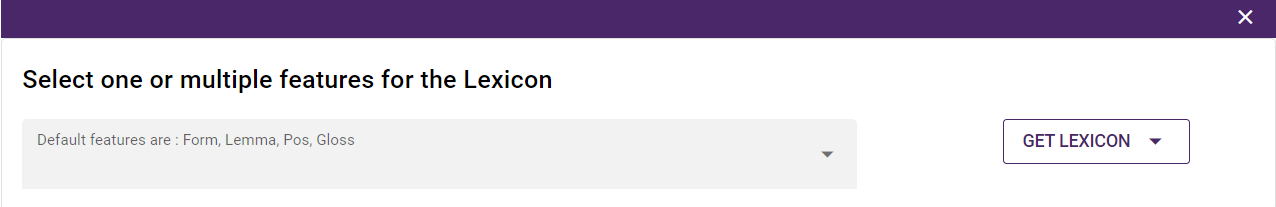
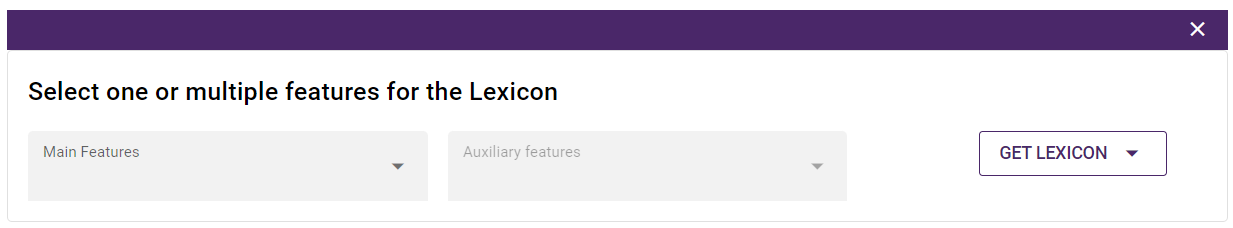
update lexicon doc

diff --git a/index.html b/index.html
@@ -1,45 +1,51 @@
 <!DOCTYPE html>
 <html lang="en">
-<head>
-  <meta charset="UTF-8">
-  <title>Document</title>
-  <meta http-equiv="X-UA-Compatible" content="IE=edge,chrome=1" />
-  <meta name="description" content="Description">
-  <meta name="viewport" content="width=device-width, initial-scale=1.0, minimum-scale=1.0">
-  
-<!-- Theme: Simple -->
-<!-- Theme: Simple Dark -->
-<link rel="stylesheet" href="//cdn.jsdelivr.net/npm/docsify/lib/themes/vue.css" />
+  <head>
+    <meta charset="UTF-8">
+    <title>Document</title>
+    <meta http-equiv="X-UA-Compatible" content="IE=edge,chrome=1" />
+    <meta name="description" content="Description">
+    <meta name="viewport" content="width=device-width, initial-scale=1.0, minimum-scale=1.0">
+    
+  <!-- Theme: Simple -->
+  <!-- Theme: Simple Dark -->
+    <link rel="stylesheet" href="//cdn.jsdelivr.net/npm/docsify/lib/themes/vue.css" />
 
-</head>
-<body>
-  <div id="app"></div>
-  <script>
-    window.$docsify = {
-      name: 'Arborator-Grew',
-      repo: '',
-      loadSidebar: '_sidebar.md',
-      subMaxLevel: 3,
+  </head>
+  <body>
+    <div id="app"></div>
+    <script>
+      window.$docsify = {
+        name: 'Arborator-Grew',
+        repo: '',
+        loadSidebar: '_sidebar.md',
+        subMaxLevel: 3,
 
-      logo: '/assets/images/logo.svg',
-      search: {
-        paths: [], // or 'auto'
-        placeholder: 'Type to search',
-        noData: 'No Results!',
-        depth: 2,
-        hideOtherSidebarContent: false,
-      },
-     
+        logo: '/assets/images/logo.svg',
+        search: {
+          paths: [], // or 'auto'
+          placeholder: 'Type to search',
+          noData: 'No Results!',
+          depth: 2,
+          hideOtherSidebarContent: false,
+        },
+        latex: {
+          inlineMath   : [['$', '$'], ['\\(', '\\)']], // default
+          displayMath  : [['$$', '$$']],               // default
+        }
+      
+      
+
+      }
+    </script>
+    <script src="//cdn.jsdelivr.net/npm/mathjax@3/es5/tex-mml-chtml.js"></script>
+    <script src="//cdn.jsdelivr.net/npm/docsify-latex@0"></script>
+    <script src="//cdn.jsdelivr.net/npm/docsify/lib/docsify.min.js"></script>
+    <script src="//cdn.jsdelivr.net/npm/docsify/lib/plugins/search.min.js"></script>
+    <!-- Docsify v4 -->
+    
     
 
-    }
-  </script>
-  <script src="//cdn.jsdelivr.net/npm/docsify/lib/docsify.min.js"></script>
-  <script src="//cdn.jsdelivr.net/npm/docsify/lib/plugins/search.min.js"></script>
-  <!-- Docsify v4 -->
-  
-  
-
-  
-</body>
+    
+  </body>
 </html>

diff --git a/README.md b/README.md
@@ -200,31 +200,40 @@ rare structures and potential errors inside a treebank. The user can access
 directly the trees that match the negative pattern and update it. 
 
 ### Lexicon 
-Lexicon is one of the advanced options available in **[Arborator-Grew](https://arboratorgrew.elizia.net/#)**. The user can select the desired features that will be displayed in the lexicon table. 
+Lexicon is one of the advanced options available in **[Arborator-Grew](https://arboratorgrew.elizia.net/#)**. The user select two list of features.
+- $L_1 = [f_1, …, f_m]$ as main features.
+- $L_2 = [g_1, …, g_m]$ as auxiliary features.
 
 <div style="text-align:center">
 <img src="assets/images/10-Select-features-lexicon.png" alt="drawing" width="900"/>
 </div>
 
-The user can also access to the trees related to the lexicon entry. The lexicon can be exported in `TSV` and `JSON` format.
+The output table corresponds to the possible values of all features, such that for all tuples of values for $f_i$, there is more than one tuples of values for $g_i$. The idea is to show only $f$ values which are ambiguous with respect to 
+values $g$.
+
+#### Exemple 
+
+For  $L_1 = [$`Form`, `Lemma`, `Upos`$]$ and $L_2 = [$`Gender `, `Number`$]$ 
 
 <div style="text-align:center">
-<img src="assets/images/11-lexicon.png" alt="drawing" width="900"/>
+<img src="assets/images/11-lexicon-exemple.png" alt="drawing" width="900"/>
 </div>
 
- The user will be able to detect ambiguous entries based on their features using the select input.  
+This will show the entries where there is more than one couple of value for `Gender` and `Number` with the same combination (`Form`, `Lemma`, `Upos`)
+
 
 <div style="text-align:center">
 <img src="assets/images/12-lexicon-ambiguous.png" alt="drawing" width="900"/>
 </div>
-
-This option will keep the entries where there is more than one couple of value for `Gender` and `Number` with the same combination (`Form`, `Lemma`, `Pos`, `Gloss`). 
  
 After that, the user can correct them directly using the grew rewrite rule option.
+<br/><br/>
 <div style="text-align:center">
-<img src="assets/images/11-Modified-lexicon.png" alt="drawing" width="900"/>
+<img src="assets/images/13-modify-lexicon.png" alt="drawing" width="900"/>
 </div> 
 
+
+?> The second list $L_2$ is optional, if it is not given all the entries of lexicon are displayed.
 
 
 
